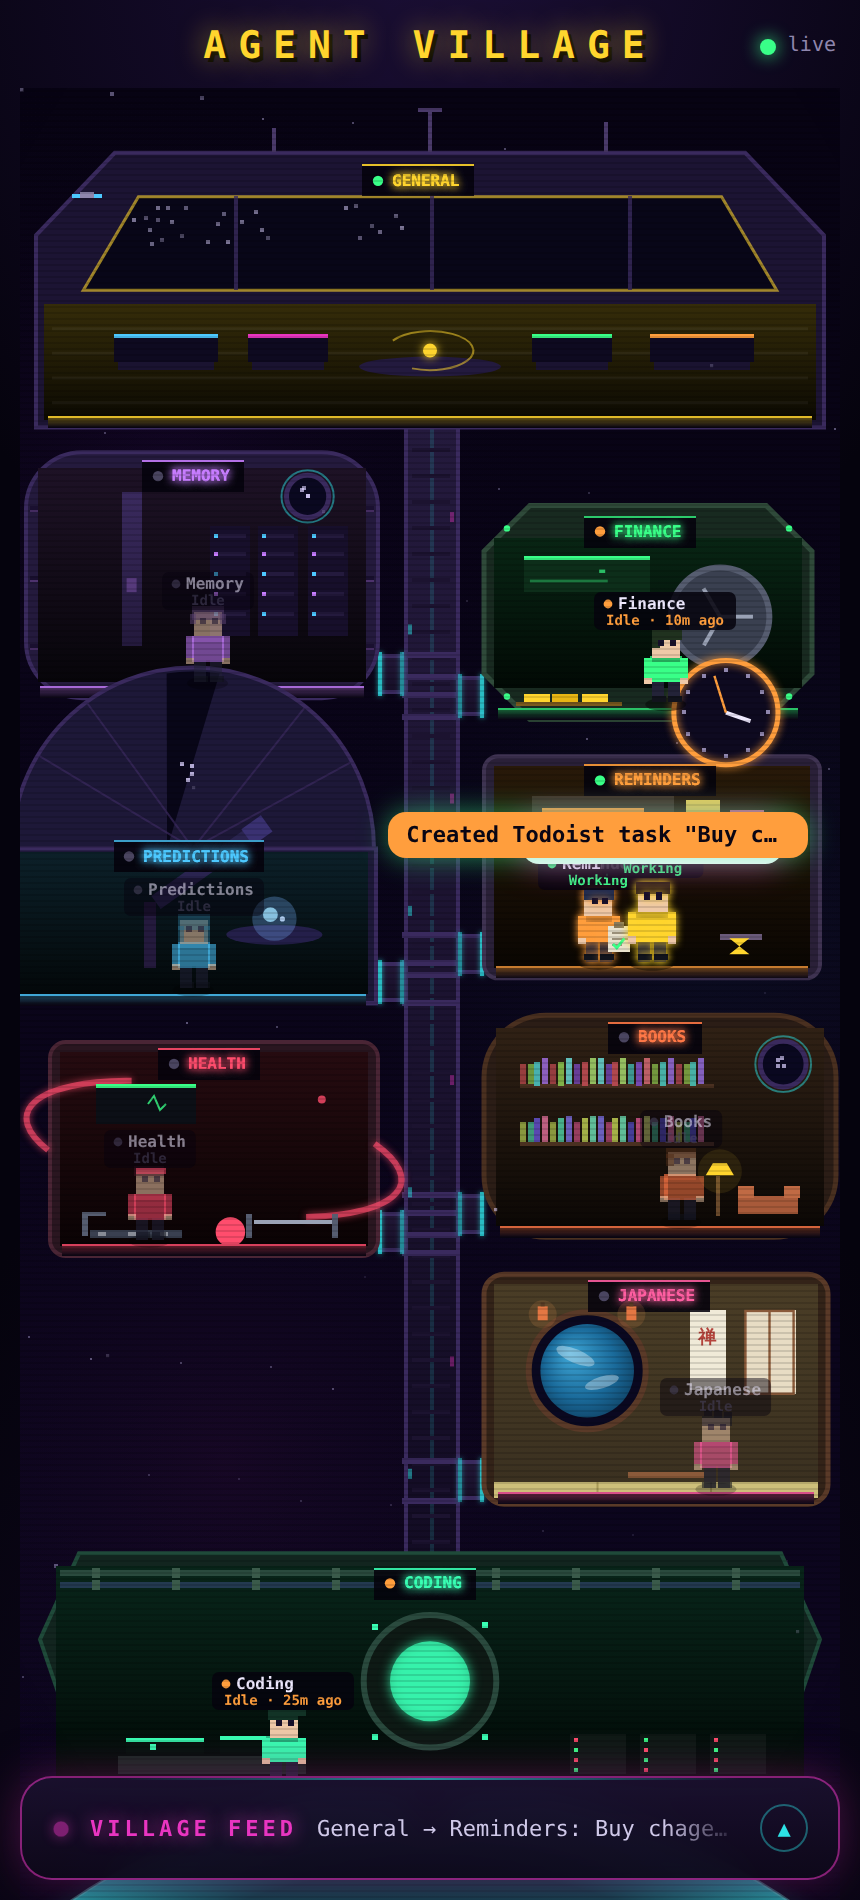
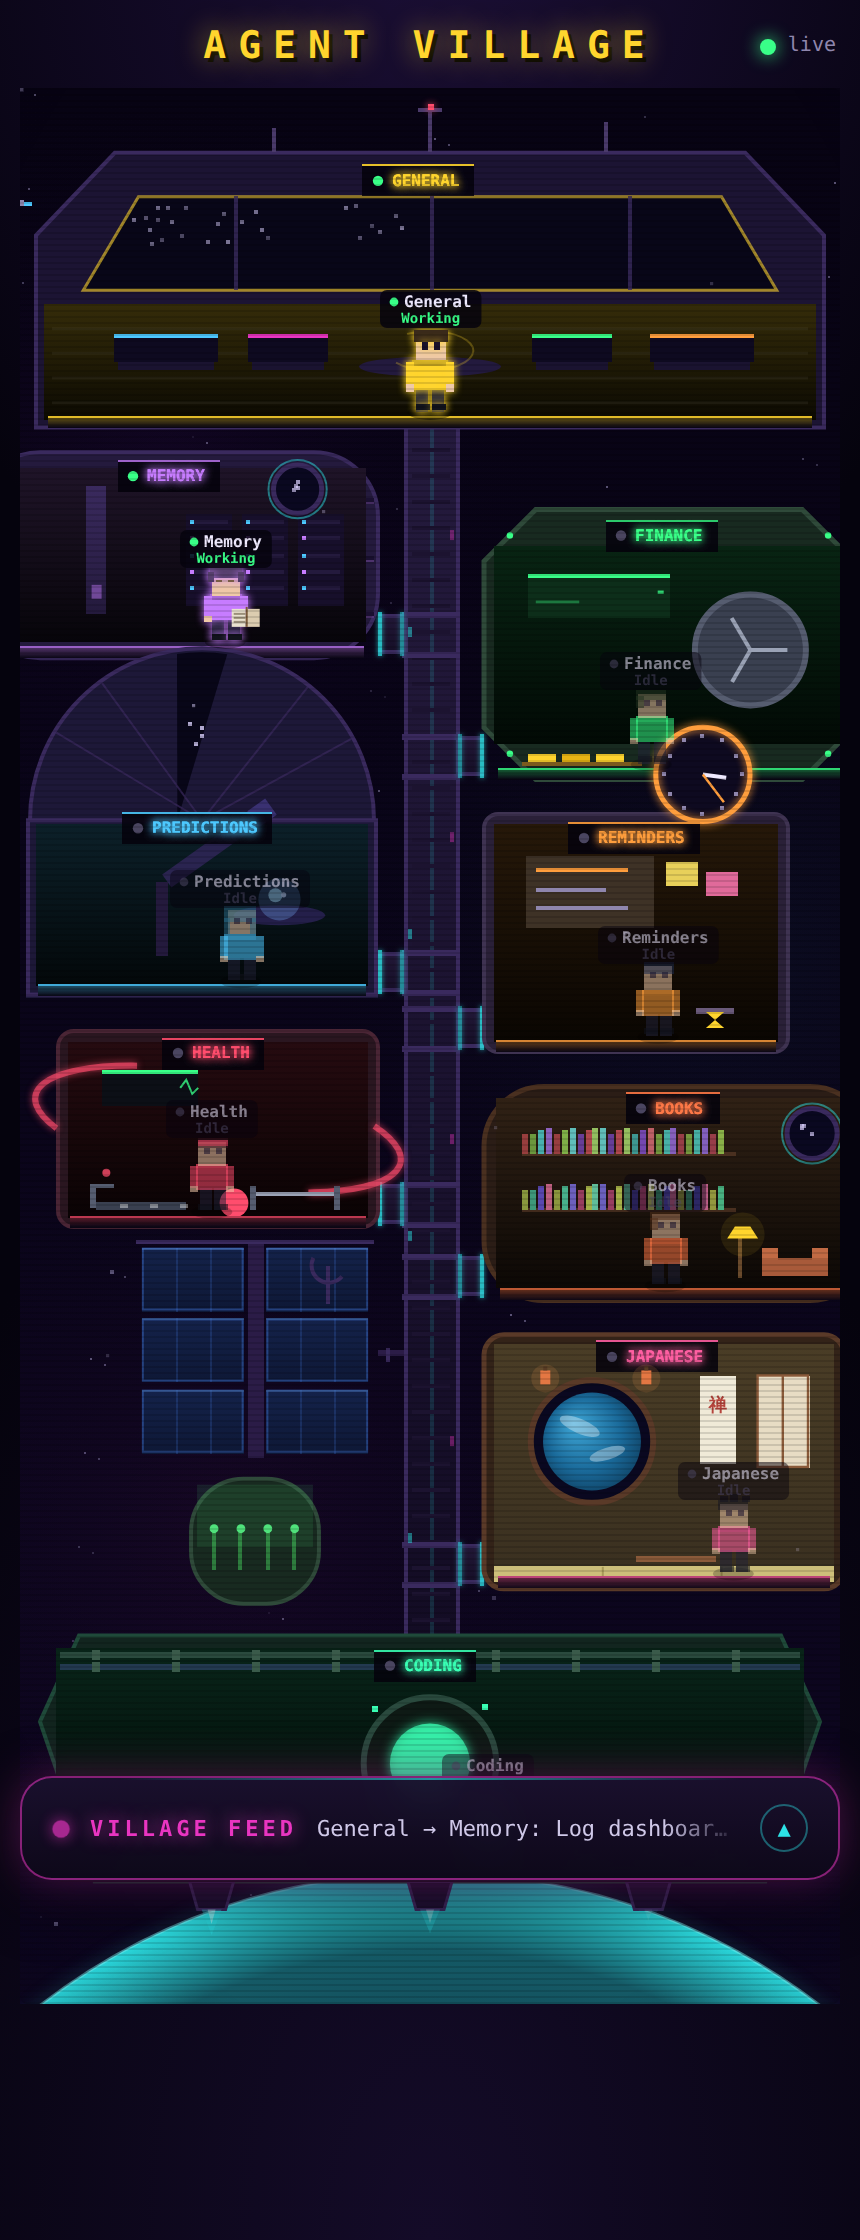
Marker-authoritative delegation + fill layout gap + broaden fallback keywords
Delegation:
- Once General emits any [[delegate: ...]] marker, keyword guesses are fully
  suppressed — General's own decision becomes the single source of truth
- Broadened Memory keywords (notion/log this/save this) and Coding keywords
  (dashboard/deploy/debug/git...) as a pre-marker bootstrap fallback

Layout:
- More varied module sizes for a less uniform station silhouette
- Compute + render a utility filler (solar-panel wing + hydroponics greenhouse
  pod + comms dish) in the leftover gap beside the taller column

diff --git a/index.html b/index.html
@@ -161,14 +161,15 @@ const DOT_HEX={working:'#39ff88',active:'#39ff88',idle:'#ff9e3d',afk:'#4dc9ff',o
 /* Side modules dock onto the central spine in a staggered zipper.
    w/h are fractions of stage width — every module is a different size. */
 const SIDE_MODS=[
-  {id:'finance',   side:'R', w:0.40, h:0.26},
-  {id:'memory',    side:'L', w:0.43, h:0.30},
-  {id:'reminders', side:'R', w:0.41, h:0.27},
-  {id:'predictions',side:'L', w:0.45, h:0.33},
-  {id:'books',     side:'R', w:0.43, h:0.27},
-  {id:'health',    side:'L', w:0.40, h:0.26},
-  {id:'japanese',  side:'R', w:0.42, h:0.28},
+  {id:'finance',   side:'R', w:0.45, h:0.33},
+  {id:'memory',    side:'L', w:0.49, h:0.25},
+  {id:'reminders', side:'R', w:0.37, h:0.29},
+  {id:'predictions',side:'L', w:0.43, h:0.37},
+  {id:'books',     side:'R', w:0.47, h:0.26},
+  {id:'health',    side:'L', w:0.39, h:0.24},
+  {id:'japanese',  side:'R', w:0.44, h:0.31},
 ];
+let fillers=[], TUBE=0;
 
 /* ============ boot ============ */
 async function boot(){
@@ -195,13 +196,15 @@ function layout(){
   rooms.general={x:bx,y:by,w:bw,h:bh,feetY:by+bh-9,cx:bx+bw/2,
     walkMin:bx+bw*0.10,walkMax:bx+bw*0.90,shape:'bridge',amb:{}};
   spineTop=by+bh;
-  // staggered side modules
-  let yL=spineTop+W*0.030, yR=spineTop+W*0.095;
+  TUBE=tube;
+  // staggered side modules (half-step zipper). Different sizes per module.
+  let yL=spineTop+W*0.030, yR=spineTop+W*0.100;
+  let botL=yL, botR=yR;
   SIDE_MODS.forEach(m=>{
     const w=Math.round(W*m.w), h=Math.round(W*m.h);
     let x, y;
-    if(m.side==='L'){x=spineX-tube-w; y=yL; yL+=h+W*0.045;}
-    else {x=spineX+spineW+tube; y=yR; yR+=h+W*0.045;}
+    if(m.side==='L'){x=spineX-tube-w; y=yL; yL+=h+W*0.042; botL=y+h;}
+    else {x=spineX+spineW+tube; y=yR; yR+=h+W*0.042; botR=y+h;}
     rooms[m.id]={x,y,w,h,feetY:y+h-9,cx:x+w/2,
       walkMin:x+w*0.13,walkMax:x+w*0.87,shape:m.id,side:m.side,tube,amb:{}};
   });
@@ -210,6 +213,15 @@ function layout(){
   rooms.coding={x:ex,y:ey,w:ew,h:eh,feetY:ey+eh-9,cx:ex+ew/2,
     walkMin:ex+ew*0.10,walkMax:ex+ew*0.90,shape:'engine',amb:{}};
   spineBot=ey;
+  // fill the leftover gap beside the taller column with a utility array
+  fillers=[];
+  const shortSide=(botL<botR)?'L':'R';
+  const gapTop=Math.min(botL,botR), gapBot=ey;
+  if(gapBot-gapTop > W*0.15){
+    const fw=Math.round(W*0.30);
+    const fx=shortSide==='L' ? spineX-tube-fw : spineX+spineW+tube;
+    fillers.push({x:fx,y:gapTop+W*0.02,w:fw,h:gapBot-gapTop-W*0.05,side:shortSide});
+  }
   H=Math.round(ey+eh+W*0.15);
   stage.style.height=H+'px';
   dpr=Math.min(window.devicePixelRatio||1,2);
@@ -240,10 +252,53 @@ function drawBackground(){
   drawSpace();
   drawSpine();
   drawTubes();
+  fillers.forEach(drawFiller);
   AGENTS.forEach(a=>{const r=rooms[a.id];if(!r)return;
     ({bridge:drawBridge,finance:drawVault,memory:drawDataCore,reminders:drawChrono,
       predictions:drawObservatory,books:drawLibrary,health:drawCentrifuge,
       japanese:drawZen,engine:drawEngineering}[r.shape]||(()=>{}))(a,r);});
+}
+
+/* decorative utility array that fills the leftover gap beside the tall column:
+   a solar-panel wing + a hydroponics pod hung off a truss to the spine */
+function drawFiller(fl){
+  const {x,y,w,h,side}=fl;
+  const spineEdge = side==='L' ? spineX : spineX+spineW;
+  const armY = y+h*0.30;
+  // truss arm to spine
+  const ax0=Math.min(side==='L'?x+w:x, spineEdge), ax1=Math.max(side==='L'?x+w:x, spineEdge);
+  R(bctx,ax0,armY-1.5,ax1-ax0,3,'#2b1c47');
+  for(let ax=ax0+4;ax<ax1-3;ax+=8)R(bctx,ax,armY-3,1.5,7,'#3a2a5e');
+  // central spar of the solar wing
+  const sparX=x+w*0.47;
+  R(bctx,sparX,y,w*0.06,h*0.58,'#2b1c47');
+  // solar panels either side of the spar
+  const rows=Math.max(2,Math.floor(h*0.58/(W*0.075)));
+  for(let i=0;i<rows;i++){
+    const py=y+i*(h*0.58/rows)+2, ph=h*0.58/rows-4;
+    for(const px of [x+w*0.04, sparX+w*0.06+2]){
+      const pw=(sparX-2)-(x+w*0.04);
+      vgrad(bctx,px,py,pw,ph,'#14224a','#0e1836');
+      bctx.strokeStyle='rgba(77,140,255,.35)';bctx.lineWidth=1;
+      bctx.strokeRect(px+0.5,py+0.5,pw-1,ph-1);
+      for(let gx=px+pw/3;gx<px+pw;gx+=pw/3)R(bctx,gx,py,1,ph,'rgba(77,140,255,.18)');
+      R(bctx,px,py,pw,1,'rgba(120,180,255,.25)'); // sheen
+    }
+  }
+  R(bctx,x+w*0.02,y-2,w*0.96,2,'#3a2a5e'); // top rail
+  // hydroponics pod hanging below the wing
+  const podY=y+h*0.64, podH=h*0.34, podX=x+w*0.24, podW=w*0.52;
+  bctx.fillStyle='#182a20';rr(bctx,podX,podY,podW,podH,podH*0.42);bctx.fill();
+  bctx.strokeStyle='#2f4a3a';bctx.lineWidth=2;rr(bctx,podX,podY,podW,podH,podH*0.42);bctx.stroke();
+  // glowing plants inside
+  for(let i=0;i<4;i++){const gx=podX+podW*(0.18+i*0.21), gyb=podY+podH*0.72;
+    R(bctx,gx-1,gyb-podH*0.3,2,podH*0.3,'#2e7d3e');
+    bctx.fillStyle='rgba(90,255,140,.85)';bctx.beginPath();bctx.arc(gx,gyb-podH*0.32,2.2,0,7);bctx.fill();}
+  bctx.fillStyle='rgba(90,255,140,.10)';bctx.fillRect(podX+3,podY+3,podW-6,podH*0.5);
+  // small dish on top of the wing
+  const dx=x+w*0.80, dy=y+h*0.06;
+  bctx.strokeStyle='#3a2a5e';bctx.lineWidth=2;bctx.beginPath();bctx.arc(dx,dy,w*0.07,0.7,3.6);bctx.stroke();
+  R(bctx,dx-1,dy,2,h*0.10,'#3a2a5e');
 }
 
 function drawSpace(){

diff --git a/agent_status.py b/agent_status.py
@@ -78,7 +78,8 @@ DELEG_MARKER = re.compile(r"\[\[\s*delegate\s*:\s*([a-z_]+)\s*(?:\|\s*(.*?))?\s*
 DELEGATION_KEYWORDS: dict[str, list[str]] = {
     "reminders":   ["remind", "reminder"],
     "finance":     ["budget", "spending", "expense"],
-    "memory":      ["log to notion", "save to notion", "remember this", "log to"],
+    "memory":      ["notion", "log this", "log that", "log it", "save this",
+                    "remember this", "note this", "add to memory", "log to"],
     "predictions": ["predict", "forecast"],
     "books":       ["download book", "download a book", "get the book", "ebook"],
     "health":      ["track health", "log workout", "log my run", "track my run"],
@@ -385,15 +386,19 @@ def get_delegations(limit: int = 20, since: float | None = None) -> list[dict]:
     finally:
         con.close()
 
-    # De-dupe: drop keyword events when a higher-precision event (marker or
-    # session) exists for the same target within a short window — they are the
-    # same real-world delegation seen twice (user msg + General's reply).
+    # Markers/sessions are General's explicit decision, so they are authoritative.
+    # Once General is emitting ANY marker, stop trusting the fragile keyword
+    # guesses entirely (they only exist to bootstrap before markers are adopted).
+    # Otherwise, still drop a keyword that duplicates a precise event nearby.
     precise = [e for e in events if e["source"] != "keyword"]
+    uses_markers = any(e["source"] == "marker" for e in events)
     kept = []
     for e in sorted(events, key=lambda e: e["ts"]):
-        if e["source"] == "keyword" and any(
-                p["to"] == e["to"] and abs(p["ts"] - e["ts"]) < 180 for p in precise):
-            continue
+        if e["source"] == "keyword":
+            if uses_markers:
+                continue
+            if any(p["to"] == e["to"] and abs(p["ts"] - e["ts"]) < 180 for p in precise):
+                continue
         kept.append(e)
 
     seen = set()
